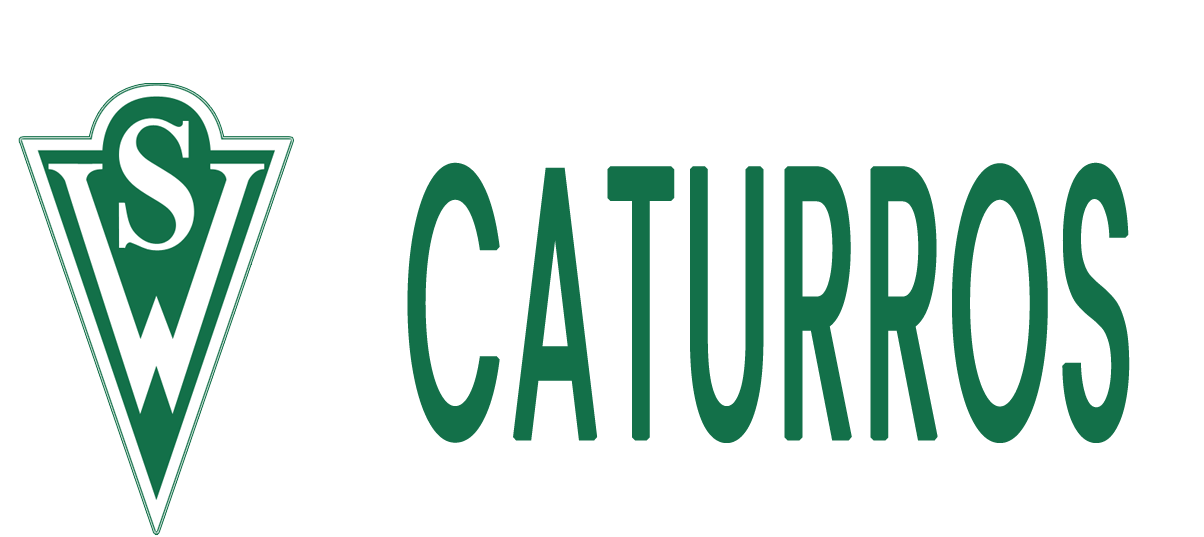
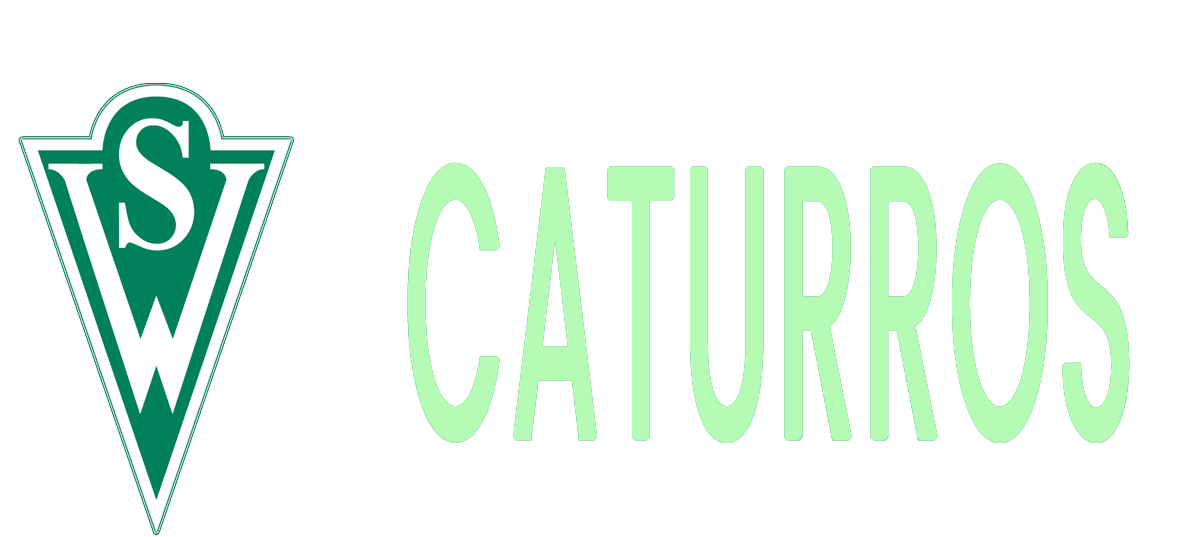
pagina pt2

Changed region(s): [[0.338, 0.298, 0.9527, 0.8343]]

diff --git a/index.html b/index.html
@@ -12,7 +12,7 @@
         <div class="menu container">
             <input type="checkbox" id="menu"/>
             <label for="menu">
-                <img src="images/Santiago_Wanderers.png" class="menu-ico" alt="menu">
+                <img src="images/Santiago_Wanderers1.png" class="menu-ico" alt="menu">
             </label>
         </div>
     </header>

diff --git a/style.css b/style.css
@@ -20,13 +20,13 @@ img{
 }
 
 .header{
-    background-color: #B0FEA5;
+    background-color: #137049;
     padding: 35px 0 40px 0;
     display: flex;
     flex-direction: row;
     justify-content: space-around;
     align-items: center;
-    border-bottom: 2px solid #368425;
+    border-bottom: 2px solid #B0FEA5;
 }
 
 .menu{
